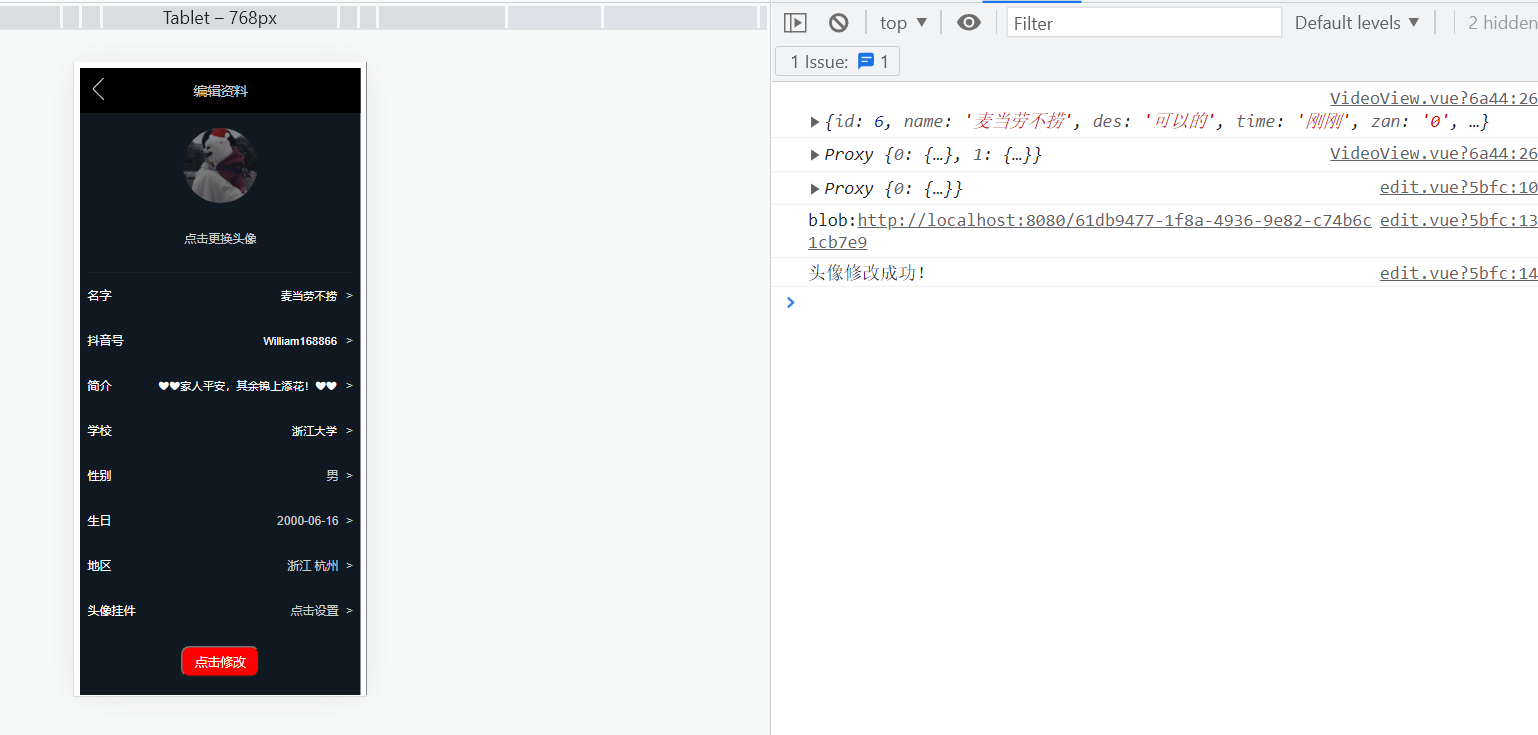
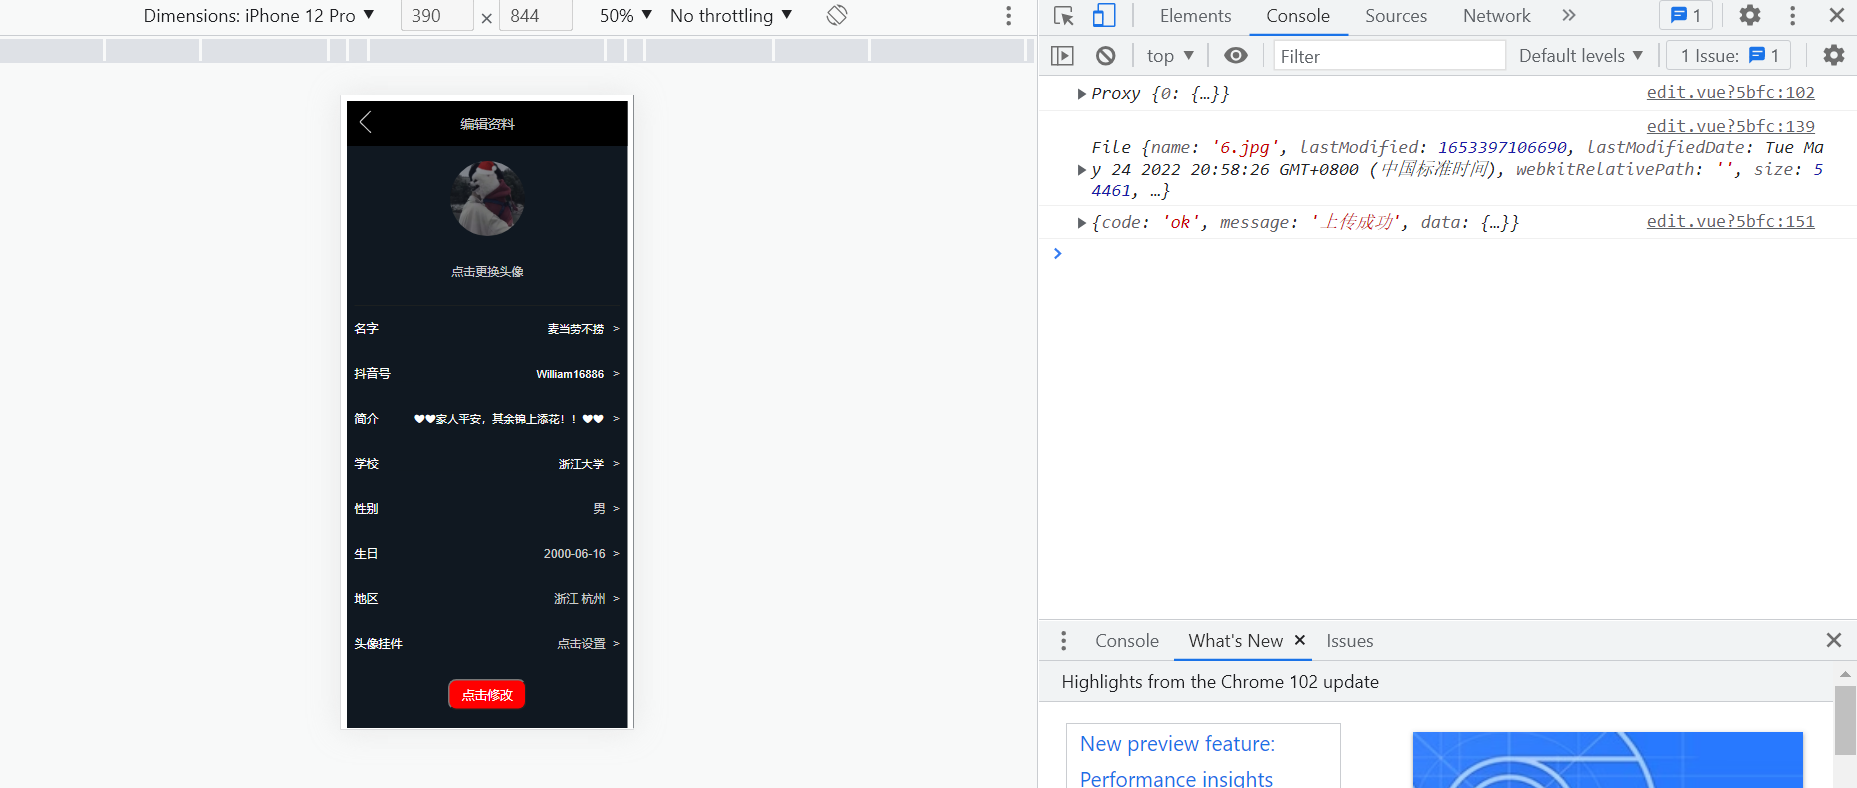
修改

diff --git a/抖音/README.md b/抖音/README.md
@@ -27,7 +27,7 @@
 
 git提交记录
 
-<img src="./img/2.png" alt="4" style="zoom:23%;" />
+<img src="./img/7.png" alt="4" style="zoom:23%;" />
 
 2. 项目自我评估表
 
@@ -74,9 +74,11 @@ git提交记录
     })
 ```
 
-   刚刚打开评论区时的数据显示
+   刚刚打开评论区时的数据显示：
 
    <img src="./img/2.png" alt="4" style="zoom:23%;" /> 
+
+   发表评论功能：
 
    发表评论模块绑定接口实现个人评论发表功能，点击发表图标按钮@click调用接口回传输入框的评论内容至数据库，axios再次调用更新评论区数据。
 
@@ -105,7 +107,11 @@ git提交记录
 
    <img src=".\img\3.png" alt="3" style="zoom: 24%;"  >
 
-   
+   删除评论功能：
+
+   删除评论模块绑定接口实现评论删除功能，点击删除按钮@click调用接口到后端对数据库对应数据做删除操作，axios再次调用更新评论区数据。
+
+   <img src=".\img\3.png" alt="3" style="zoom: 24%;"  >
 
    2、个人资料界面
 
@@ -442,7 +448,29 @@ git提交记录
     router.post("/comm2",comm2.create)//发表个人评论
     router.get("/video",video.findAll)//获取视频列表
     app.use('/api/user',router)
-    
+    // 上传图片接口
+    router.post('/uploadImage', (req, res) => {
+    upload(req, res).then(imgsrc => {
+      // 上传成功 存储文件路径 到数据库中
+      // swq sql需要修改一下，变成新增，这里测试暂用更新
+      let sql = `UPDATE information SET imgUrl='${imgsrc}'WHERE id='1' `
+      query(sql, (err, results) => {
+        if (err) {
+          formatErrorMessage(res, err)
+        } else {
+          res.send({
+            "code": "ok",
+            "message": "上传成功",
+            'data': {
+              url: imgsrc
+            }
+          })
+        }
+      })
+    }).catch(err => {
+      formatErrorMessage(res, err.error)
+    })
+  })
   }
 ```
 
@@ -459,7 +487,8 @@ git提交记录
    | post  | /api/user/info       |         传参：name，des，school                             | 对个人信息进行修改                                            | 修改个人信息         |
    | get  | /api/user/comm1     |                          | 获取评论区信息                                         | 获取带回复的评论区信息         |
    | get  | /api/user/comm2     |                          | 获取评论区信息                                         | 获取不带回复评论区信息         |
-   | post  | /api/user/comm1 |        传参：des0                              | 发表输入框输入的评论                                         | 发表评论     |
+   | post  | /api/user/comm2 |        传参：des0                              | 发表输入框输入的评论                                         | 发表评论     |
+      | post  | /api/user/comm2 |                                     | 删除对应的评论                                         | 删除评论     |
    | post  | /api/user/uploadImage |        url传参：文件file                              | 修改个人资料的头像                                         | 修改头像     |
 
 
